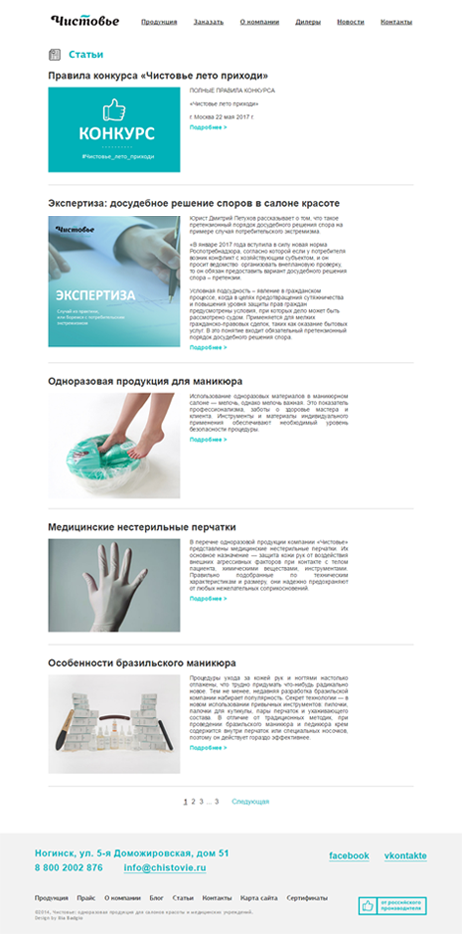
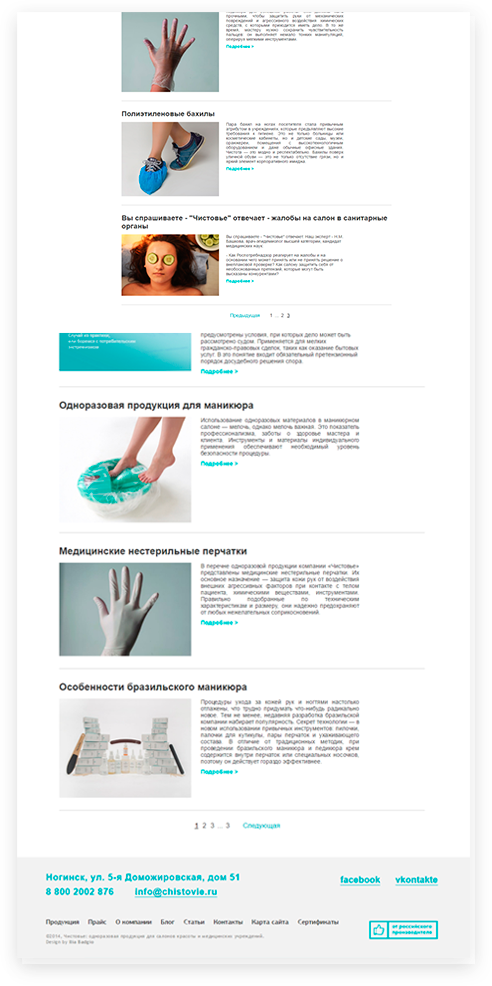
fixed

diff --git a/app/css/app.css b/app/css/app.css
@@ -727,7 +727,7 @@ p {
   height: 635px;
   position: relative;
   background: url("../images/targets-bg.png") no-repeat;
-  background-position: 710px 85px;
+  background-position: center 85px;
 }
 
 .targets {
@@ -735,13 +735,16 @@ p {
 }
 
 .targets-grid {
-  position: absolute;
-  width: 100%;
-  height: 100%;
+  position: relative;
+  display: -ms-flexbox;
+  display: flex;
+  width: 840px;
+  margin: 0 auto;
+  -ms-flex-pack: justify;
+  justify-content: space-between;
 }
 
 .targets-grid__item-1, .targets-grid__item-2, .targets-grid__item-3 {
-  position: absolute;
   display: -ms-flexbox;
   display: flex;
   -ms-flex-direction: column;
@@ -749,7 +752,8 @@ p {
   -ms-flex-pack: center;
   justify-content: center;
   text-align: center;
-  top: 38px;
+  margin-top: 38px;
+  width: 260px;
 }
 
 .targets-grid__item-1 {
@@ -762,9 +766,6 @@ p {
 
 .targets-grid__item-3 {
   left: 686px;
-}
-.targets-grid__item-3 .targets-grid__descr {
-  padding-left: 8px;
 }
 
 .targets-grid__title {
@@ -1103,8 +1104,8 @@ p {
 
 .articles-image__1 {
   position: absolute;
-  width: 462px;
-  height: 934px;
+  width: 492px;
+  height: 986px;
   background: url("../images/articles-image-1.png") no-repeat;
   left: 533px;
   top: 72px;

diff --git a/app/sass/_main.sass b/app/sass/_main.sass
@@ -432,23 +432,25 @@ p
 	height: 635px
 	position: relative
 	background: url("../images/targets-bg.png") no-repeat
-	background-position: 710px 85px
+	background-position: center 85px
 
 .targets
 	height: 500px
 
 .targets-grid
-	position: absolute
-	width: 100%
-	height: 100%
+	position: relative
+	display: flex
+	width: 840px
+	margin: 0 auto
+	justify-content: space-between
 
 .targets-grid__item-1, .targets-grid__item-2, .targets-grid__item-3
-	position: absolute
 	display: flex
 	flex-direction: column
 	justify-content: center
 	text-align: center
-	top: 38px
+	margin-top: 38px
+	width: 260px
 
 .targets-grid__item-1
 	left: 120px
@@ -458,8 +460,6 @@ p
 
 .targets-grid__item-3
 	left: 686px
-	.targets-grid__descr
-		padding-left: 8px
 
 .targets-grid__title
 	font-size: 38px
@@ -755,8 +755,8 @@ p
 	
 .articles-image__1
 	position: absolute
-	width: 462px
-	height: 934px
+	width: 492px
+	height: 986px
 	background: url('../images/articles-image-1.png') no-repeat
 	left: 533px
 	top: 72px
